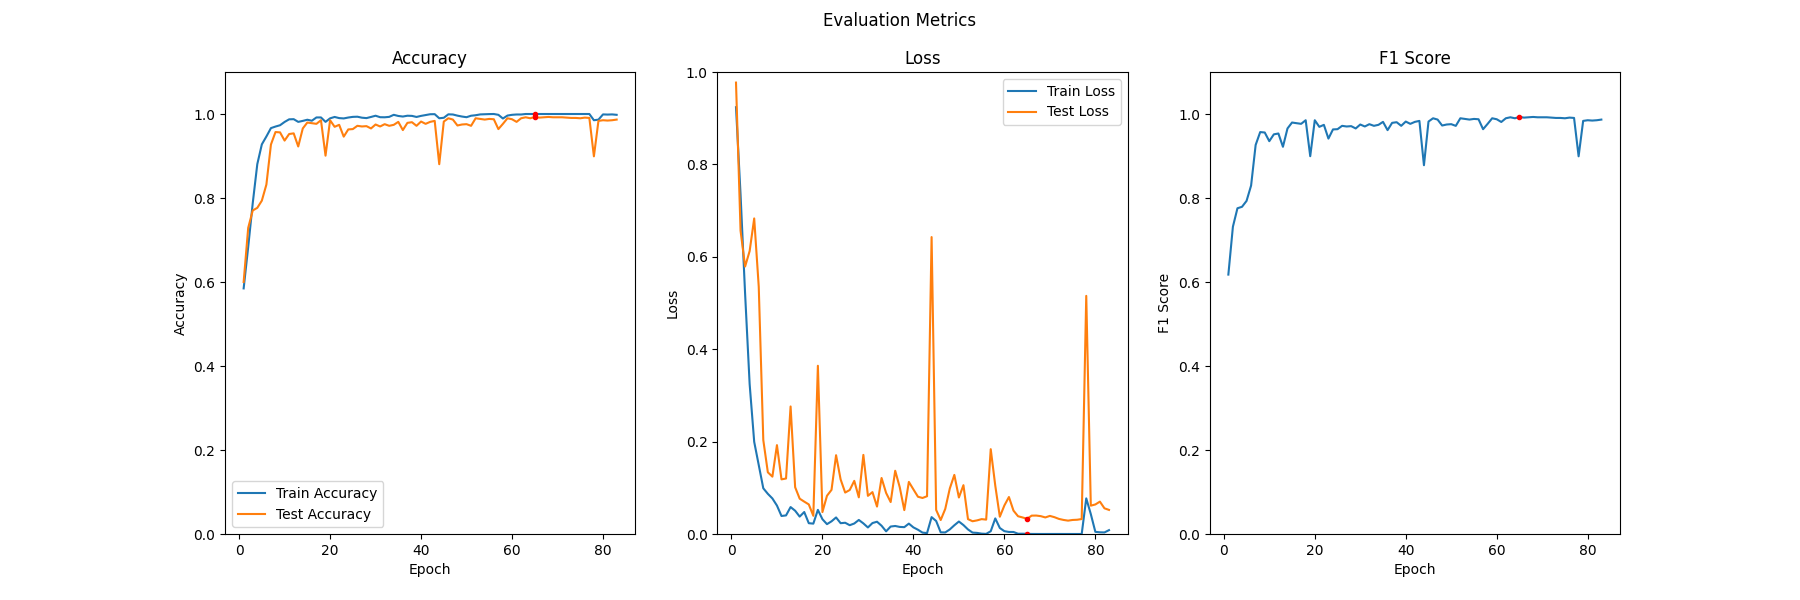
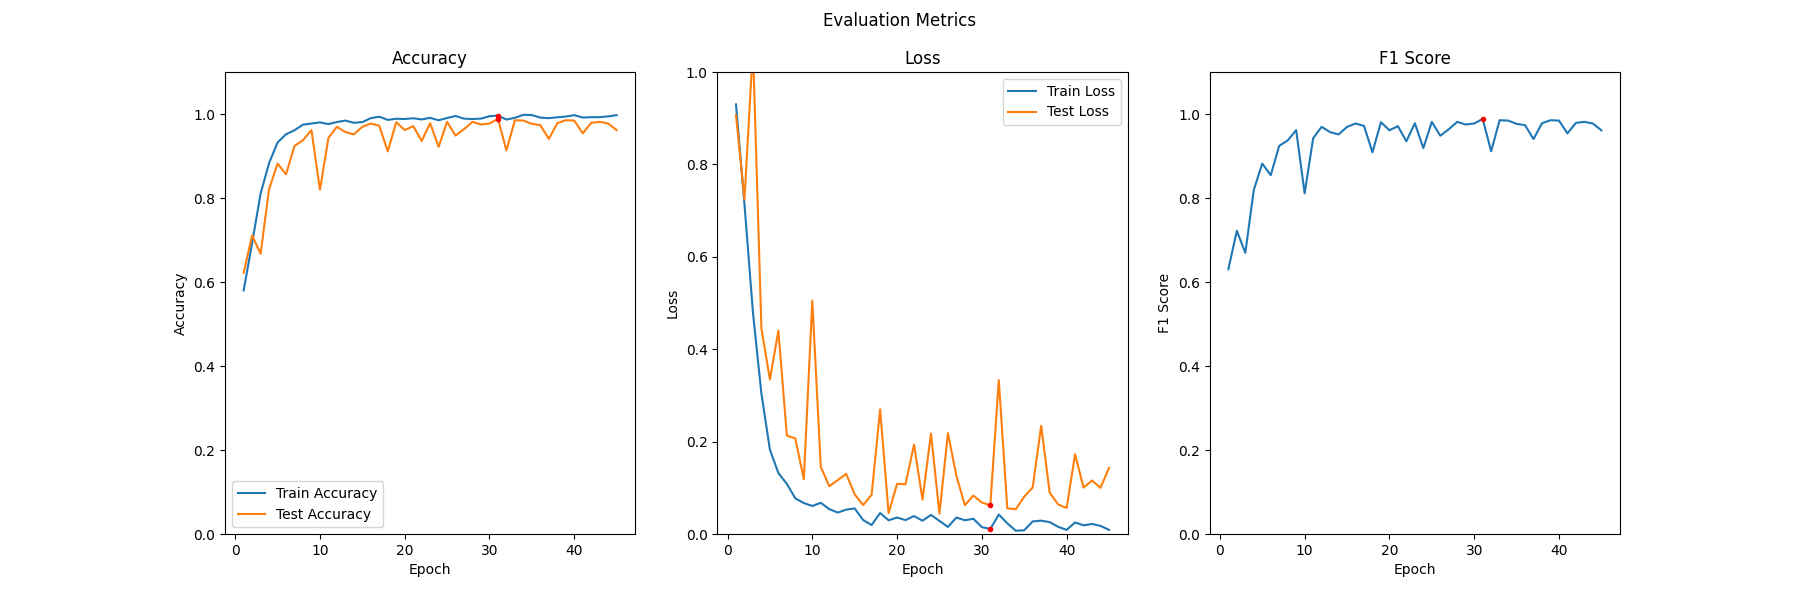
updated readme

diff --git a/src/eval_fig.py b/src/eval_fig.py
@@ -10,13 +10,13 @@ import torchvision.transforms as transforms
 from PIL import Image
 import ast
 
-with open(r'model_results\16_batch_data\test_accuracy.txt', 'r') as file:
+with open(r'model_results\16_batch_data\val_accuracy.txt', 'r') as file:
     content = file.read()
-    test_accruacy = ast.literal_eval(content)
+    val_accruacy = ast.literal_eval(content)
 
-with open(r'model_results\16_batch_data\test_loss.txt', 'r') as file:
+with open(r'model_results\16_batch_data\val_loss.txt', 'r') as file:
     content = file.read()
-    test_loss = ast.literal_eval(content)
+    val_loss = ast.literal_eval(content)
 
 with open(r'model_results\16_batch_data\training_accuracy.txt', 'r') as file:
     content = file.read()
@@ -40,8 +40,8 @@ saved_epoch_idx = np.argmax(arr)
 
 ax1.plot(x, train_accruacy, label="Train Accuracy")
 ax1.scatter(saved_epoch_idx + 1, train_accruacy[saved_epoch_idx], color='red', marker='.', zorder=2)
-ax1.plot(x, test_accruacy, label="Test Accuracy")
-ax1.scatter(saved_epoch_idx + 1, test_accruacy[saved_epoch_idx], color='red', marker='.', zorder=2)
+ax1.plot(x, val_accruacy, label="Test Accuracy")
+ax1.scatter(saved_epoch_idx + 1, val_accruacy[saved_epoch_idx], color='red', marker='.', zorder=2)
 ax1.set_xlabel('Epoch')
 ax1.set_ylabel('Accuracy')
 ax1.set_ylim(0, 1.1)
@@ -49,8 +49,8 @@ ax1.legend()
 
 ax2.plot(x, train_loss, label='Train Loss')
 ax2.scatter(saved_epoch_idx + 1, train_loss[saved_epoch_idx], color='red', marker='.', zorder=2)
-ax2.plot(x, test_loss, label='Test Loss')
-ax2.scatter(saved_epoch_idx + 1, test_loss[saved_epoch_idx], color='red', marker='.', zorder=2)
+ax2.plot(x, val_loss, label='Test Loss')
+ax2.scatter(saved_epoch_idx + 1, val_loss[saved_epoch_idx], color='red', marker='.', zorder=2)
 ax2.set_xlabel('Epoch')
 ax2.set_ylabel("Loss")
 ax2.set_ylim(0, 1)
@@ -71,4 +71,5 @@ fig.suptitle('Evaluation Metrics')
 plt.subplots_adjust(wspace=0.2)
 fig.savefig(r'model_results\plots\CNN_Eval_Plot.png')
 plt.show()
+
 

diff --git a/README.md b/README.md
@@ -78,7 +78,7 @@ The dataset was divided into a stratified 80% for training and 20% for validatio
 
 The model utilized cross-entropy loss for multi-class classification and was optimized using the Adam optimizer. Evaluation was performed using a weighted F1 score, biased towards recall due to the medical nature of the data. The model prioritized avoiding false negatives, as they might lead to patients' symptom dismissal and delayed dementia diagnosis, potentially impacting treatment effectiveness. False positives were deemed less damaging, leading to closer patient inspection and continued testing which results in little harm to the pacient.
 
-Training incorporated an early stopper (with a pacients of 20 epochs) based on minimizing the loss on the validation set. The final F1 score on the validation set was 0.9812180731034102, with an accuracy of 0.98125 and loss of 0.04419510681909742. The model achieved an accuracy and loss of 0.9904296875 and 0.028394215618527598 on the training data. The model reach its minimum validation loss at epoch 25 and this is the model state saved in the model.pth file. The figure "CNN_Eval_Plot_norm_batch16.png" in the data directory showcases a comparison plot between the model's training and validation accuracy and loss, along with a plot of the F1 scores during training. There was a difference in loss in the training vs the validation data giving some evidence to the model overfitting on the training data. The extend of this overfitting is unknown due to my access to test data is currently limited. If this model would be deployed in any relevant usecase the issue of overfitting would need to be addressed. The red dot on the plot shows the saved models final statistics. The plot is shown below. The microbatching and batch normalization stabalized the model's learning and was ultimately used to created the saved model. ![Alt text](https://github.com/jakepatock/Convolutional_Neural_Network_for_Dementia_Stage_Detection/blob/master/model_results/plots/CNN_Eval_Plot_norm_batch16.png)
+Training incorporated an early stopper (with a pacients of 20 epochs) based on minimizing the loss on the validation set. The final F1 score on the validation set was 0.9812180731034102, with an accuracy of 0.98125 and loss of 0.04419510681909742. The model achieved an accuracy and loss of 0.9904296875 and 0.028394215618527598 on the training data. The model reach its minimum validation loss at epoch 25 and this is the model state saved in the model.pth file. The figure "CNN_Eval_Plot_norm_batch16.png" in the data directory showcases a comparison plot between the model's training and validation accuracy and loss, along with a plot of the F1 scores during training. There was a small difference in loss in the training vs the validation data giving possible evidence to the model overfitting on the training data. The extend of this overfitting is unknown due to my access to test data is currently limited. If this model would be deployed in any relevant usecase the issue of overfitting would need to be analyzed. The red dot on the plot shows the saved models final statistics. The plot is shown below. The microbatching and batch normalization stabalized the model's learning and was ultimately used to created the saved model. ![Alt text](https://github.com/jakepatock/Convolutional_Neural_Network_for_Dementia_Stage_Detection/blob/master/model_results/plots/CNN_Eval_Plot_norm_batch16.png)
     <br />
     <a href="https://github.com/jakepatock/Convolutional_Neural_Network_for_Dementia_Stage_Detection"><strong>Explore the docs »</strong></a>
     <br />
